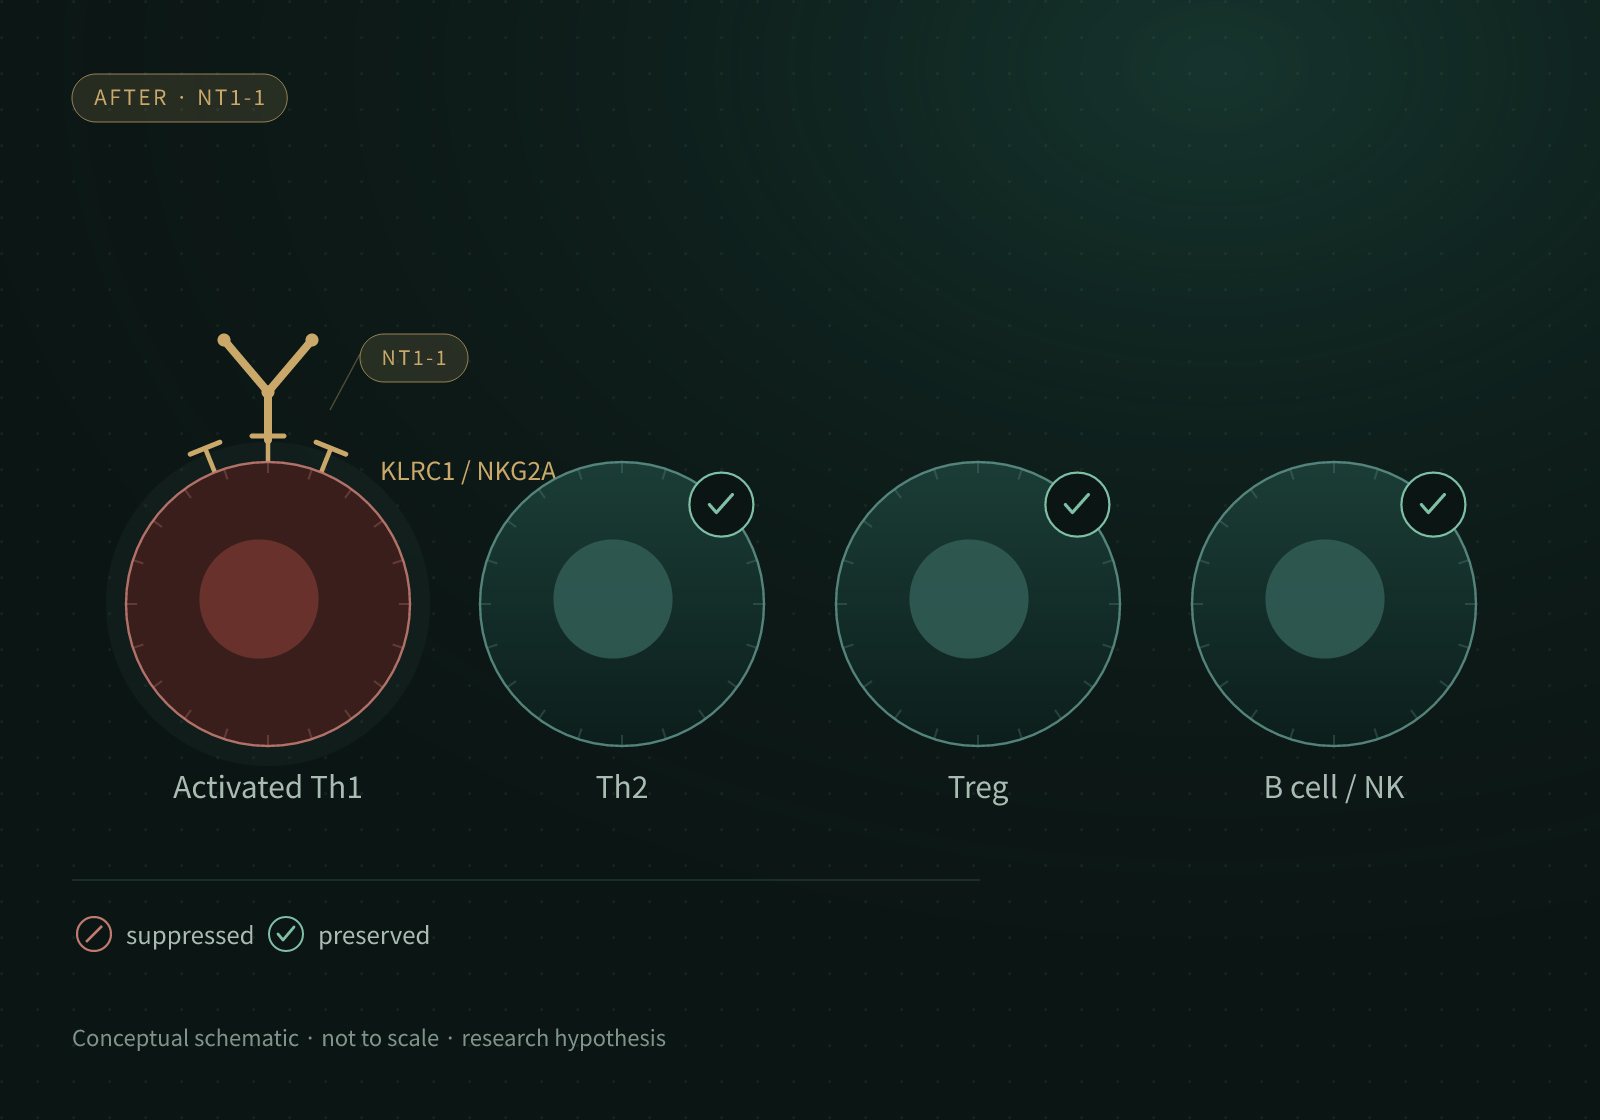
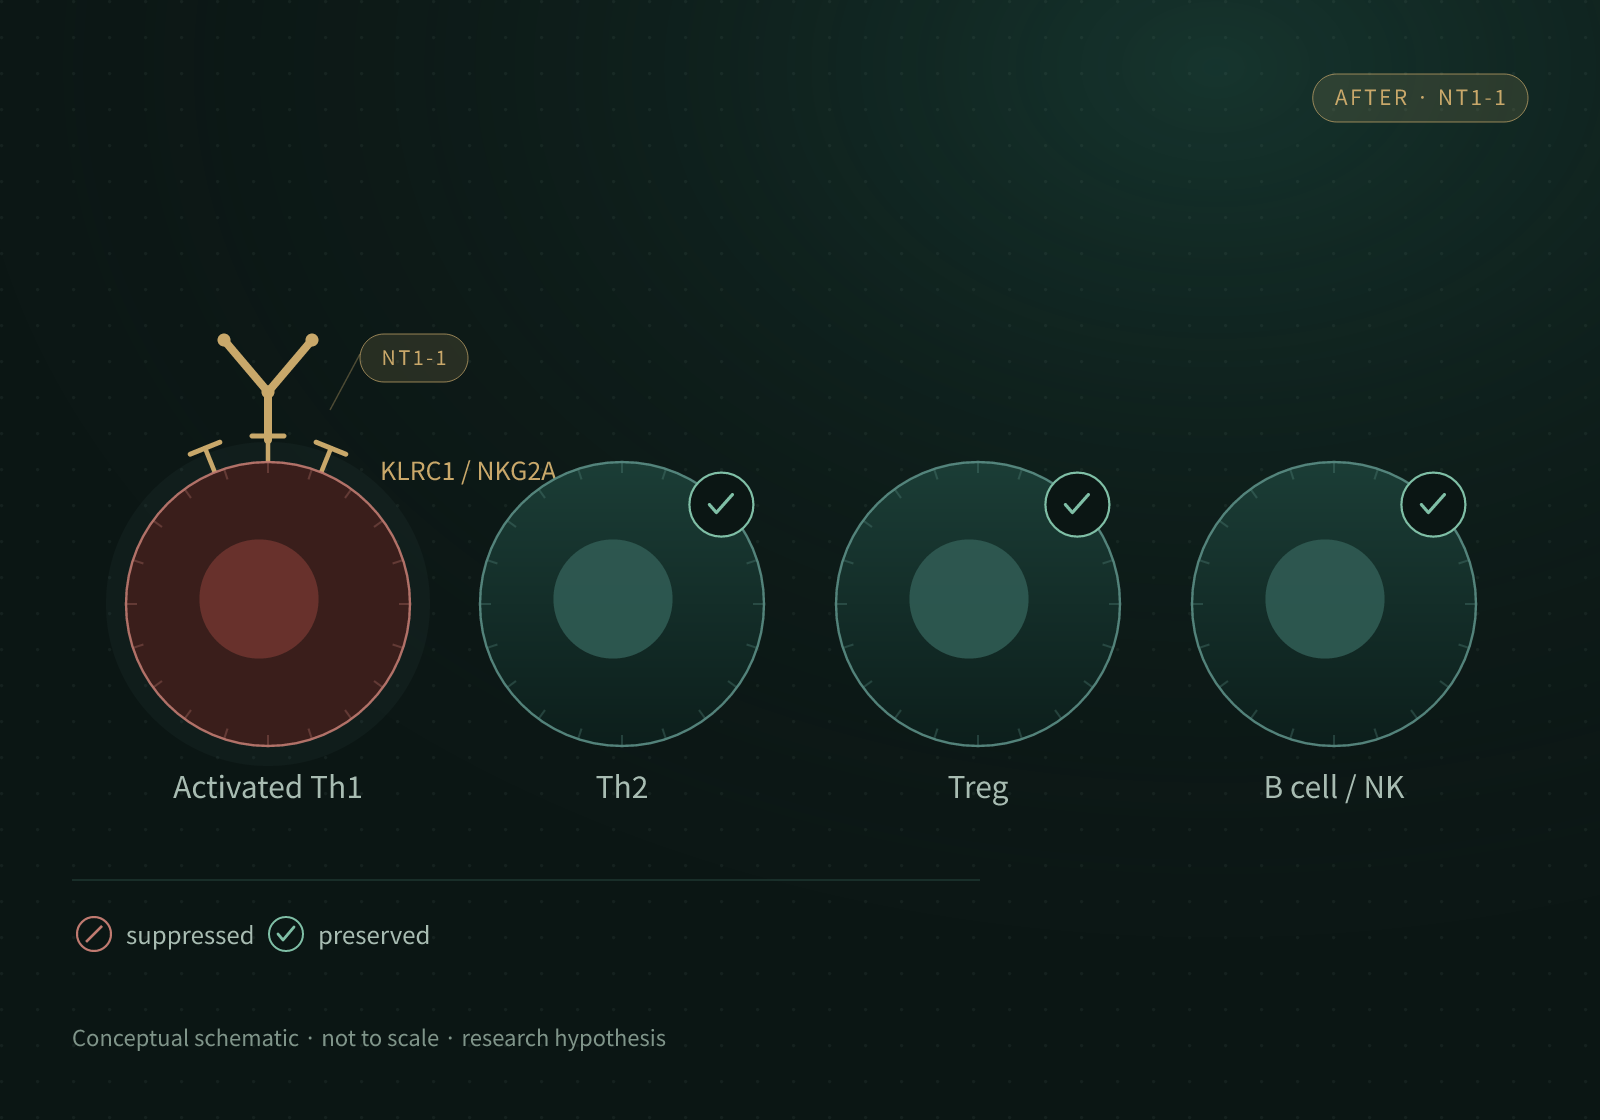
Mechanism slider: label each half (BEFORE left, AFTER right), lighter viewer hint

Changed region(s): [[0.8125, 0.0625, 0.9688, 0.125], [0.0312, 0.0625, 0.1875, 0.125]]

diff --git a/index.html b/index.html
@@ -211,7 +211,7 @@ html.lenis,html.lenis body{height:auto}.lenis.lenis-smooth{scroll-behavior:auto!
 .molstage>div{position:absolute;inset:0}
 .molstatus{position:absolute;inset:0;display:grid;place-items:center;text-align:center;padding:22px;font-size:9px;letter-spacing:.14em;text-transform:uppercase;color:#8fb4a6;line-height:1.9}
 .molstatus.hide{display:none}
-.molhint{position:absolute;left:9px;bottom:9px;z-index:3;font-size:8px;letter-spacing:.12em;text-transform:uppercase;color:#e6efe5;background:#0b1b19cc;border:1px solid #ffffff24;padding:5px 8px;pointer-events:none}
+.molhint{position:absolute;left:9px;bottom:9px;z-index:3;font-size:8.5px;letter-spacing:.06em;text-transform:uppercase;color:#e6efe5;background:#0b1b19cc;border:1px solid #ffffff24;padding:5px 8px;pointer-events:none}
 .mechfoot{padding:12px 24px 17px;font-size:8.5px;color:#7f9489;line-height:1.75}
 .sliderwrap{margin:0 12px;border:1px solid #22423b;background:#0a1917;overflow:hidden}
 img-comparison-slider{display:block;--divider-width:2px;--divider-color:#e9dfc8;--default-handle-width:46px;--default-handle-color:#e9dfc8;--default-handle-opacity:.92;--divider-shadow:0 0 14px #00000073}
@@ -261,7 +261,7 @@ img-comparison-slider.noslider img+img{display:none}
 <div class="molstage" id="mol-stage"><div class="molstatus" id="mol-status" data-ko="구조 불러오는 중…">Loading structure…</div><span class="molhint" data-ko="드래그 회전 · 확대">Drag · zoom</span></div>
 <div class="mechfoot" data-ko="PDB 3BDW · 사람 CD94/NKG2A 이종이합체 · 2.5 Å X선 구조 (RCSB PDB). 분자 구조는 표적 결합 가설을 설명하기 위한 참고 자료입니다.">PDB 3BDW · human CD94/NKG2A heterodimer · 2.5 Å X-ray structure (RCSB PDB). The structure is reference material for the target-engagement hypothesis.</div></div>
 <div class="mechcard"><div class="mechhead"><small data-ko="기전 비교">Mechanism comparison</small><h3 data-ko="광범위 면역억제 vs. 선택적 Th1 조절">Broad immunosuppression vs. selective Th1 modulation</h3><p data-ko="가운데 핸들을 좌우로 움직여 두 접근을 비교합니다.">Move the handle left and right to compare the two approaches.</p></div>
-<div class="sliderwrap"><img-comparison-slider tabindex="0" aria-label="Before and after mechanism comparison / 기전 비교"><img slot="first" src="assets/mechanism/mechanism-before-en.png?v=3" data-img-en="assets/mechanism/mechanism-before-en.png?v=3" data-img-ko="assets/mechanism/mechanism-before-ko.png?v=3" data-alt-en="Conceptual schematic: broad immunosuppression suppresses activated Th1 cells together with Th2, Treg, B and NK cells" data-alt-ko="개념 모식도: 광범위 면역억제는 활성 Th1 세포와 함께 Th2, Treg, B, NK 세포를 억제합니다" alt="Conceptual schematic: broad immunosuppression suppresses activated Th1 cells together with Th2, Treg, B and NK cells"><img slot="second" src="assets/mechanism/mechanism-after-en.png?v=3" data-img-en="assets/mechanism/mechanism-after-en.png?v=3" data-img-ko="assets/mechanism/mechanism-after-ko.png?v=3" data-alt-en="Conceptual schematic: NT1-1 engages KLRC1 / NKG2A on activated Th1 cells while other compartments are preserved in the hypothesis" data-alt-ko="개념 모식도: NT1-1은 활성 Th1 세포의 KLRC1 / NKG2A에 결합하고, 가설상 다른 면역 구획은 보존됩니다" alt="Conceptual schematic: NT1-1 engages KLRC1 / NKG2A on activated Th1 cells while other compartments are preserved in the hypothesis"></img-comparison-slider></div>
+<div class="sliderwrap"><img-comparison-slider tabindex="0" aria-label="Before and after mechanism comparison / 기전 비교"><img slot="first" src="assets/mechanism/mechanism-before-en.png?v=4" data-img-en="assets/mechanism/mechanism-before-en.png?v=4" data-img-ko="assets/mechanism/mechanism-before-ko.png?v=4" data-alt-en="Conceptual schematic: broad immunosuppression suppresses activated Th1 cells together with Th2, Treg, B and NK cells" data-alt-ko="개념 모식도: 광범위 면역억제는 활성 Th1 세포와 함께 Th2, Treg, B, NK 세포를 억제합니다" alt="Conceptual schematic: broad immunosuppression suppresses activated Th1 cells together with Th2, Treg, B and NK cells"><img slot="second" src="assets/mechanism/mechanism-after-en.png?v=4" data-img-en="assets/mechanism/mechanism-after-en.png?v=4" data-img-ko="assets/mechanism/mechanism-after-ko.png?v=4" data-alt-en="Conceptual schematic: NT1-1 engages KLRC1 / NKG2A on activated Th1 cells while other compartments are preserved in the hypothesis" data-alt-ko="개념 모식도: NT1-1은 활성 Th1 세포의 KLRC1 / NKG2A에 결합하고, 가설상 다른 면역 구획은 보존됩니다" alt="Conceptual schematic: NT1-1 engages KLRC1 / NKG2A on activated Th1 cells while other compartments are preserved in the hypothesis"></img-comparison-slider></div>
 <div class="mechfoot" data-ko="개념 설명용 모식도 · 실제 비율 아님 · 연구 가설이며 치료 효과는 입증되지 않았습니다.">Conceptual schematics · not to scale · research hypothesis; no therapeutic effect has been established.</div></div>
 </div>
 <div class="statband reveal">
